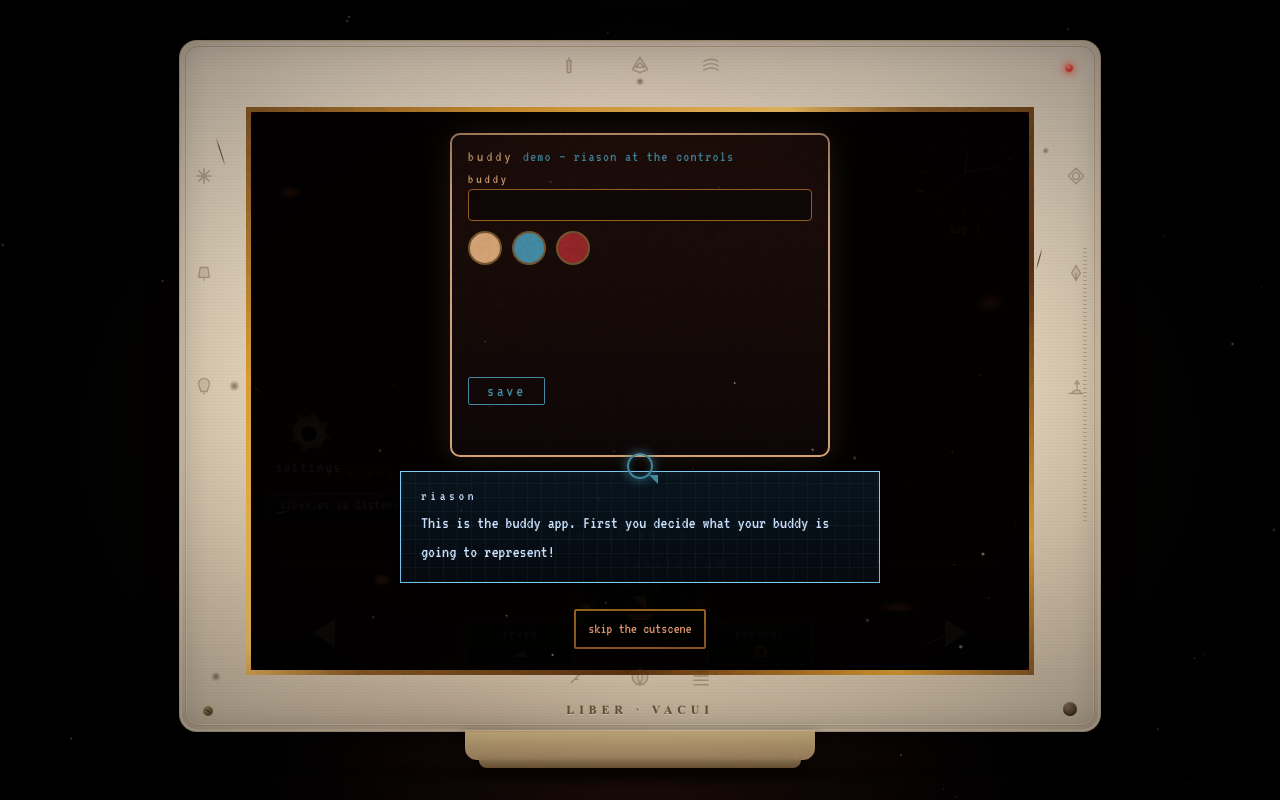
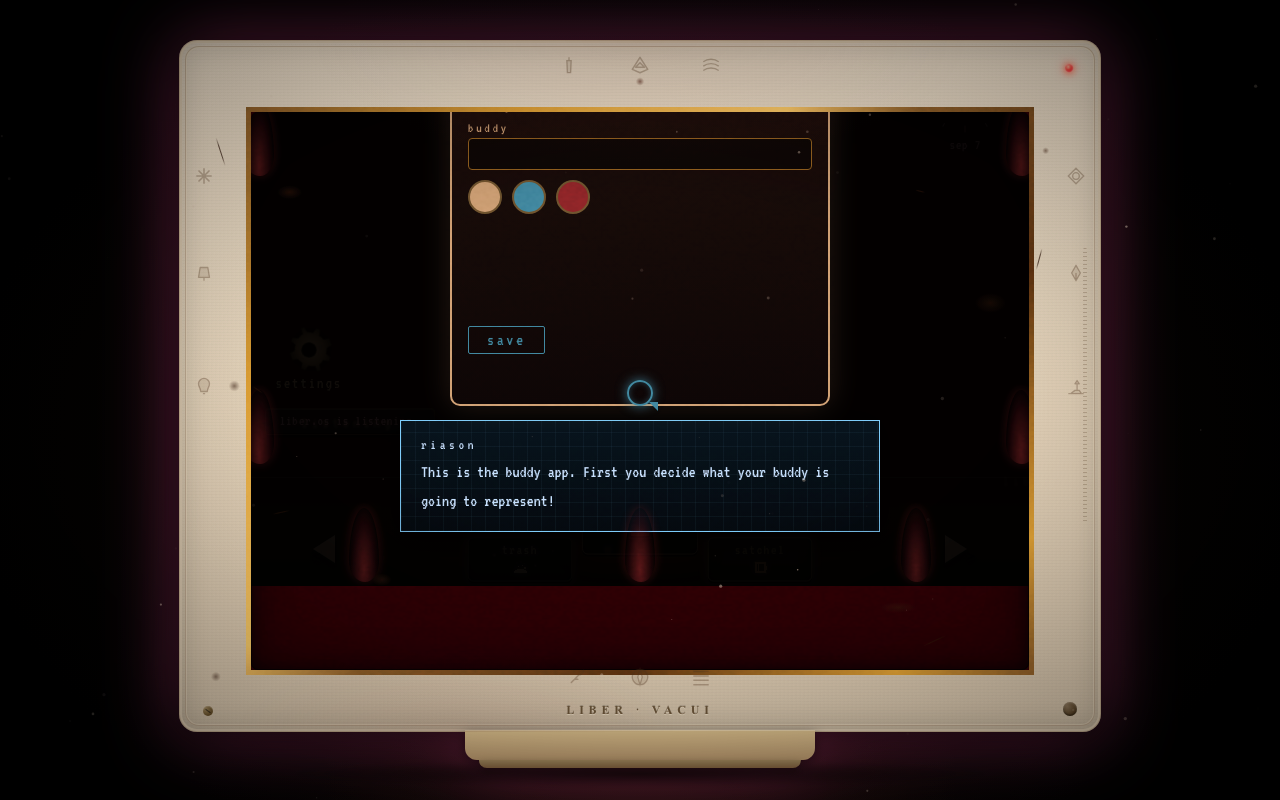
Cutscene: bezel fire ritual, no-skips, big summoning text
- Ritual rebuilt: 12 flames ring the visible screen (bottom-up
  ignition, clamped to stage), white-core pink fire with flicker,
  whole-machine shake on shake beats, lean + flare-up, ember
  die-down into blackflame. Egg ovals deleted.
- Summoning lines full-screen (clamp 2.4-4.5rem) with flicker.
- Skip removed from the entire intro cutscene (ritual, beats,
  demo, artifact). Finale reignites the ring; intruder flares it.
- Smoke green.

diff --git a/src/cutscene.js b/src/cutscene.js
@@ -57,15 +57,6 @@
     if (old) old.remove();
   }
 
-  function skipAll() {
-    var s = st();
-    if (s) s.set({ tutorialDone: true, tutorialStage: 'done' });
-    clearBox();
-    var wipe = document.querySelector('.cutscene-wipe');
-    if (wipe) wipe.remove();
-  }
-
-
   function optionRow(box, options, onPick) {
     if (!options || !options.length) return;
     var row = document.createElement('div');
@@ -103,51 +94,99 @@
     var stage = document.querySelector('.screen-stage');
     if (!stage) { done(); return; }
     clearBox();
+    var oldRing = document.getElementById('crt-flames');
+    if (oldRing && oldRing.parentNode) oldRing.parentNode.removeChild(oldRing);
+    var machine = document.querySelector('.machine');
+    var ring = document.createElement('div');
+    ring.className = 'crt-flames';
+    ring.id = 'crt-flames';
+    ring.setAttribute('aria-hidden', 'true');
+    var sr = stage.getBoundingClientRect();
+    var scrEl = stage.querySelector('.screen') || machine;
+    var mr = scrEl ? scrEl.getBoundingClientRect() : null;
+    var spots = [];
+    function clamp(v, lo, hi) { return Math.max(lo, Math.min(hi, v)); }
+    if (mr && mr.width > 0) {
+      var x0 = mr.left - sr.left, y0 = mr.top - sr.top, w = mr.width, h = mr.height, si;
+      var PX = function (x, y) { return { x: clamp(x, 8, sr.width - 8), y: clamp(y, 8, sr.height - 8) }; };
+      for (si = 0; si < 3; si++) spots.push(PX(x0 + w * (0.2 + si * 0.3), y0 + h + 14));
+      for (si = 0; si < 2; si++) spots.push(PX(x0 - 26, y0 + h * (0.3 + si * 0.4)));
+      for (si = 0; si < 2; si++) spots.push(PX(x0 + w + 14, y0 + h * (0.3 + si * 0.4)));
+      var tops = [0.06, 0.27, 0.5, 0.73, 0.94];
+      for (si = 0; si < tops.length; si++) spots.push(PX(x0 + w * tops[si], y0 - 18));
+    }
+    var flameEls = [];
+    spots.forEach(function (p, n) {
+      var f = document.createElement('span');
+      f.className = 'ritual-flame';
+      f.style.left = p.x + 'px';
+      f.style.top = p.y + 'px';
+      f.style.animationDelay = ((n % 4) * 0.13) + 's';
+      ring.appendChild(f);
+      flameEls.push(f);
+    });
+    stage.appendChild(ring);
+    if (machine) machine.classList.add('flame-live');
+    function setGlow(on) { if (machine) machine.classList.toggle('flame-glow', !!on); }
+    function breakHard(ms) {
+      if (!machine) return;
+      machine.classList.remove('machine-break', 'machine-break-hard');
+      void machine.offsetWidth;
+      machine.classList.add('machine-break-hard');
+      setTimeout(function () { if (machine) machine.classList.remove('machine-break', 'machine-break-hard'); }, ms || 1200);
+    }
+    function breakOnce() {
+      if (!machine) return;
+      machine.classList.remove('machine-break');
+      void machine.offsetWidth;
+      machine.classList.add('machine-break');
+      setTimeout(function () { if (machine) machine.classList.remove('machine-break'); }, 1100);
+    }
     var box = document.createElement('div');
     box.className = 'cutscene ritual';
     box.id = 'cutscene';
     box.dataset.act = 'ritual';
-    var flames = '';
-    for (var f = 0; f < 5; f++) flames += '<span class="ritual-flame" aria-hidden="true"></span>';
     box.innerHTML =
-      '<div class="ritual-flames">' + flames + '</div>' +
       '<div class="cutscene-box ritual-box">' +
         '<div class="cutscene-line ritual-line"></div>' +
-        '<div class="cutscene-nav"><button type="button" class="cutscene-skip">skip the cutscene</button></div>' +
       '</div>';
     stage.appendChild(box);
-    var skip = box.querySelector('.cutscene-skip');
-    if (skip) skip.addEventListener('click', skipAll);
     var lineEl = box.querySelector('.ritual-line');
-    var flameEls = box.querySelectorAll('.ritual-flame');
     var dead = false;
     function alive() { return !dead && document.body.contains(box); }
-    box.addEventListener('click', function (e) {
-      if (e.target.closest && e.target.closest('button')) return;
-      if (e.target === box || e.target.closest('.ritual-box')) {
-        dead = true;
-        done();
-      }
-    });
+    function finish() {
+      if (!alive()) return;
+      dead = true;
+      box.classList.add('blackflame');
+      setGlow(false);
+      flameEls.forEach(function (f) { f.classList.remove('lit'); f.classList.add('ember'); });
+      setTimeout(function () { done(); }, 1600);
+    }
+    box.addEventListener('click', function () { finish(); });
     var i = 0;
     function step() {
       if (!alive()) return;
-      if (i >= SUMMON.length) {
-        box.classList.add('blackflame');
-        setTimeout(function () { if (alive()) done(); }, 1600);
-        return;
-      }
+      if (i >= SUMMON.length) { finish(); return; }
       var s = SUMMON[i];
-      if (flameEls[i]) flameEls[i].classList.add('lit');
+      for (var k = 0; k < 3; k++) {
+        var f = flameEls[i * 3 + k];
+        if (f) f.classList.add('lit');
+      }
       if (lineEl) {
         lineEl.textContent = s.line;
         lineEl.classList.remove('is-glow', 'is-flames', 'is-shake', 'is-shake-more');
         lineEl.classList.add('is-' + s.fx);
       }
+      setGlow(true);
       if (s.fx === 'shake' || s.fx === 'shake-more') {
         box.classList.remove('do-shake', 'do-shake-more');
         void box.offsetWidth;
         box.classList.add(s.fx === 'shake' ? 'do-shake' : 'do-shake-more');
+        ring.classList.remove('lean', 'flare-up');
+        void ring.offsetWidth;
+        ring.classList.add('lean');
+        if (s.fx === 'shake-more') { ring.classList.add('flare-up'); breakHard(1400); } else breakOnce();
+        setTimeout(function () { ring.classList.remove('lean', 'flare-up'); }, s.fx === 'shake-more' ? 2100 : 1100);
         thunk();
       }
       i++;
@@ -191,13 +230,7 @@
           next.className = 'cutscene-next';
           next.textContent = '▶';
           next.addEventListener('click', function () { idx++; show(); });
-          var skip = document.createElement('button');
-          skip.type = 'button';
-          skip.className = 'cutscene-skip';
-          skip.textContent = 'skip the cutscene';
-          skip.addEventListener('click', skipAll);
           row.appendChild(next);
-          row.appendChild(skip);
           inner.appendChild(row);
           optionRow(box, b.options, function () { idx++; show(); });
         }, 450 * (b.names.length + 1) + 200);
@@ -216,13 +249,7 @@
       next.className = 'cutscene-next';
       next.textContent = b.nextLabel || '▶';
       next.addEventListener('click', function () { idx++; show(); });
-      var skip = document.createElement('button');
-      skip.type = 'button';
-      skip.className = 'cutscene-skip';
-      skip.textContent = 'skip the cutscene';
-      skip.addEventListener('click', skipAll);
       row.appendChild(next);
-      row.appendChild(skip);
       inner.appendChild(row);
       optionRow(box, b.options, function () { idx++; show(); });
     }
@@ -282,18 +309,14 @@
         '<div class="demo-preview" id="demo-preview" aria-hidden="true"></div>' +
       '</div>' +
       '<div class="cutscene-box riason demobox"><div class="cutscene-voice">riason</div>' +
-        '<div class="cutscene-line demo-riasay">This is the buddy app. First you decide what your buddy is going to represent!</div></div>' +
-      '<div class="cutscene-nav demonav"><button type="button" class="cutscene-skip" id="demo-skip">skip the cutscene</button></div>';
+        '<div class="cutscene-line demo-riasay">This is the buddy app. First you decide what your buddy is going to represent!</div></div>';
     stage.appendChild(box);
-    var skip = document.getElementById('demo-skip');
-    if (skip) skip.addEventListener('click', skipAll);
     var cursor = document.getElementById('demo-cursor');
     var app = document.getElementById('demo-app');
     var input = document.getElementById('demo-input');
     function alive() { return document.body.contains(box); }
-    box.addEventListener('pointerdown', function (e) {
+    box.addEventListener('pointerdown', function () {
       if (!alive()) return;
-      if (e.target.closest && e.target.closest('#demo-skip')) return;
       riasonSay(box, 'Not yet. Let me finish this.');
       box.classList.remove('do-deny');
       void box.offsetWidth;
@@ -371,11 +394,8 @@
       box.id = 'cutscene';
       box.innerHTML = '<div class="demo-artifact" id="demo-artifact" role="button" tabindex="0" aria-label="artifact"></div>' +
         '<div class="cutscene-box riason"><div class="cutscene-voice">riason</div>' +
-        '<div class="cutscene-line">You click the artifact to set its relation to the buddy.</div></div>' +
-        '<div class="cutscene-nav"><button type="button" class="cutscene-skip" id="art-skip">skip the binding</button></div>';
+        '<div class="cutscene-line">You click the artifact to set its relation to the buddy.</div></div>';
       stage.appendChild(box);
-      var skip = document.getElementById('art-skip');
-      if (skip) skip.addEventListener('click', function () { playFinale(); });
       var art = document.getElementById('demo-artifact');
       function go() { playFakeChain(); }
       if (art) {
@@ -420,7 +440,18 @@
     o.className = 'flare-overlay';
     o.innerHTML = '<div class="flare-alert">intruder detected</div><div class="flare-sub">…documenting.</div>';
     stage.appendChild(o);
-    setTimeout(function () { if (o.parentNode) o.parentNode.removeChild(o); }, 1700);
+    var ring = document.getElementById('crt-flames');
+    if (ring) ring.classList.add('flare');
+    var machine = document.querySelector('.machine');
+    if (machine) {
+      machine.classList.add('flame-glow', 'machine-break-hard');
+      setTimeout(function () { if (machine) machine.classList.remove('machine-break-hard'); }, 1500);
+    }
+    setTimeout(function () {
+      if (o.parentNode) o.parentNode.removeChild(o);
+      var r2 = document.getElementById('crt-flames');
+      if (r2) r2.classList.remove('flare');
+    }, 1700);
   }
 
   function flash(color, ms) {    var f = document.createElement('div');
@@ -444,6 +475,17 @@
     if (window.Cursor) { try { window.Cursor.burst(); } catch (e) {} }
     var hub = document.getElementById('constellation-sigil');
     if (hub) hub.classList.add('hub-burst');
+    var ring = document.getElementById('crt-flames');
+    if (ring) {
+      ring.classList.remove('flare');
+      var fl = ring.querySelectorAll('.ritual-flame');
+      for (var fi = 0; fi < fl.length; fi++) { fl[fi].classList.remove('ember'); fl[fi].classList.add('lit'); }
+    }
+    var machine = document.querySelector('.machine');
+    if (machine) {
+      machine.classList.add('flame-glow', 'machine-break-hard');
+      setTimeout(function () { if (machine) machine.classList.remove('machine-break-hard'); }, 1500);
+    }
     flash('rgba(255,240,220,0.85)', 450);
     shakeMachine(1400);
     thunk();
@@ -478,6 +520,10 @@
 
   function endClean() {
     clearBox();
+    var ring = document.getElementById('crt-flames');
+    if (ring && ring.parentNode) ring.parentNode.removeChild(ring);
+    var machine = document.querySelector('.machine');
+    if (machine) machine.classList.remove('flame-live', 'flame-glow', 'machine-break', 'machine-break-hard');
     var s = st();
     if (s) s.set({ tutorialDone: true, tutorialStage: 'done' });
     chime();

diff --git a/styles/cutscene.css b/styles/cutscene.css
@@ -159,26 +159,6 @@
   gap: 18px;
 }
 
-.ritual-flames {
-  display: flex;
-  gap: 22px;
-}
-
-.ritual-flame {
-  width: 14px;
-  height: 22px;
-  border-radius: 50% 50% 50% 50% / 62% 62% 38% 38%;
-  background: #2a1418;
-  border: 1px solid #4a2a30;
-  transition: background 0.5s ease, box-shadow 0.5s ease;
-}
-
-.ritual-flame.lit {
-  background: radial-gradient(circle at 50% 70%, #ffd0e0 0%, #ff69b4 45%, #c02060 100%);
-  border-color: #ff8ab8;
-  box-shadow: 0 0 18px rgba(255, 105, 180, 0.9), 0 0 44px rgba(255, 105, 180, 0.4);
-}
-
 .ritual-box {
   background: transparent;
   border: none;
@@ -645,4 +625,88 @@
 .fakebox { animation: fakebox-fall 0.5s ease-in 0.4s forwards; }
 @keyframes fakebox-fall {
   to { transform: translateY(46px); opacity: 0; }
+}
+
+.cutscene.ritual {
+  background: radial-gradient(ellipse at 50% 55%, rgba(10, 2, 6, 0.25) 0%, rgba(0, 0, 0, 0.88) 78%);
+}
+.crt-flames {
+  position: absolute;
+  inset: 0;
+  z-index: 80;
+  pointer-events: none;
+}
+.machine.flame-live {
+  position: relative;
+  z-index: 2;
+}
+.machine.flame-glow {
+  filter: drop-shadow(0 0 34px rgba(255, 80, 140, 0.45));
+}
+.ritual-flame {
+  position: absolute;
+  width: 30px;
+  height: 74px;
+  margin: -70px 0 0 -15px;
+  border-radius: 50% 50% 46% 54% / 72% 72% 28% 28%;
+  background: radial-gradient(ellipse at 50% 80%, rgba(60, 16, 24, 0.9) 0%, rgba(30, 8, 12, 0.4) 60%, transparent 75%);
+  opacity: 0.4;
+  transition: opacity 0.5s ease;
+}
+.ritual-flame.lit {
+  opacity: 1;
+  background:
+    radial-gradient(ellipse at 50% 88%, rgba(255, 244, 230, 0.95) 0%, rgba(255, 214, 170, 0.85) 12%, transparent 30%),
+    radial-gradient(ellipse at 50% 72%, rgba(255, 105, 180, 0.9) 0%, rgba(255, 60, 120, 0.55) 45%, transparent 72%),
+    radial-gradient(ellipse at 50% 55%, rgba(255, 90, 40, 0.5) 0%, rgba(192, 74, 88, 0.3) 55%, transparent 80%);
+  box-shadow: 0 0 22px rgba(255, 105, 180, 0.75), 0 0 60px rgba(255, 90, 40, 0.4), 0 -8px 34px rgba(255, 200, 140, 0.35);
+  animation: flame-flick 0.5s ease-in-out infinite alternate;
+}
+.ritual-flame.ember {
+  opacity: 0.5;
+  background: radial-gradient(ellipse at 50% 85%, rgba(255, 80, 60, 0.7) 0%, rgba(120, 20, 20, 0.35) 55%, transparent 75%);
+  box-shadow: 0 0 10px rgba(255, 60, 40, 0.35);
+}
+.crt-flames.flare .ritual-flame.lit {
+  background:
+    radial-gradient(ellipse at 50% 88%, rgba(255, 240, 240, 0.95) 0%, transparent 30%),
+    radial-gradient(ellipse at 50% 70%, rgba(255, 40, 50, 0.9) 0%, rgba(192, 20, 30, 0.55) 50%, transparent 75%);
+  box-shadow: 0 0 26px rgba(255, 40, 50, 0.85), 0 0 70px rgba(255, 40, 50, 0.45);
+}
+@keyframes flame-flick {
+  from { transform: scaleY(1) skewX(0deg); filter: brightness(1); }
+  to { transform: scaleY(1.13) skewX(-3deg); filter: brightness(1.22); }
+}
+.machine-break { animation: machine-break 0.55s linear 2; }
+.machine-break-hard { animation: machine-break 0.45s linear 5; }
+@keyframes machine-break {
+  0%, 100% { transform: translate(0, 0) rotate(0deg); }
+  20% { transform: translate(-7px, 4px) rotate(-0.5deg); }
+  40% { transform: translate(6px, -5px) rotate(0.45deg); }
+  60% { transform: translate(-5px, -3px) rotate(-0.35deg); }
+  80% { transform: translate(4px, 5px) rotate(0.3deg); }
+}
+.cutscene.ritual .ritual-box {
+  box-shadow: 0 0 0 2px rgba(255, 105, 180, 0.15), 0 -10px 22px rgba(255, 105, 180, 0.35), 0 0 18px rgba(255, 105, 180, 0.18);
+}
+.cutscene.ritual .ritual-line {
+  font-size: clamp(2.4rem, 6vw, 4.5rem);
+  letter-spacing: 0.08em;
+  line-height: 1.25;
+  text-shadow: 0 0 18px rgba(255, 105, 180, 0.85), 0 0 60px rgba(255, 90, 40, 0.4);
+  animation: summon-flicker 1.0s ease-in-out infinite alternate;
+}
+.crt-flames { transition: transform 0.3s ease, filter 0.3s ease; }
+.crt-flames.lean {
+  transform: translateX(-7px) skewX(-2deg);
+}
+.crt-flames.flare-up {
+  filter: brightness(1.35) saturate(1.2);
+}
+@media (prefers-reduced-motion: reduce) {
+  .cutscene.ritual .ritual-line { animation: none; }
+}
+@media (prefers-reduced-motion: reduce) {
+  .ritual-flame, .ritual-flame.lit { animation: none; }
+  .machine-break, .machine-break-hard { animation: none; }
 }
